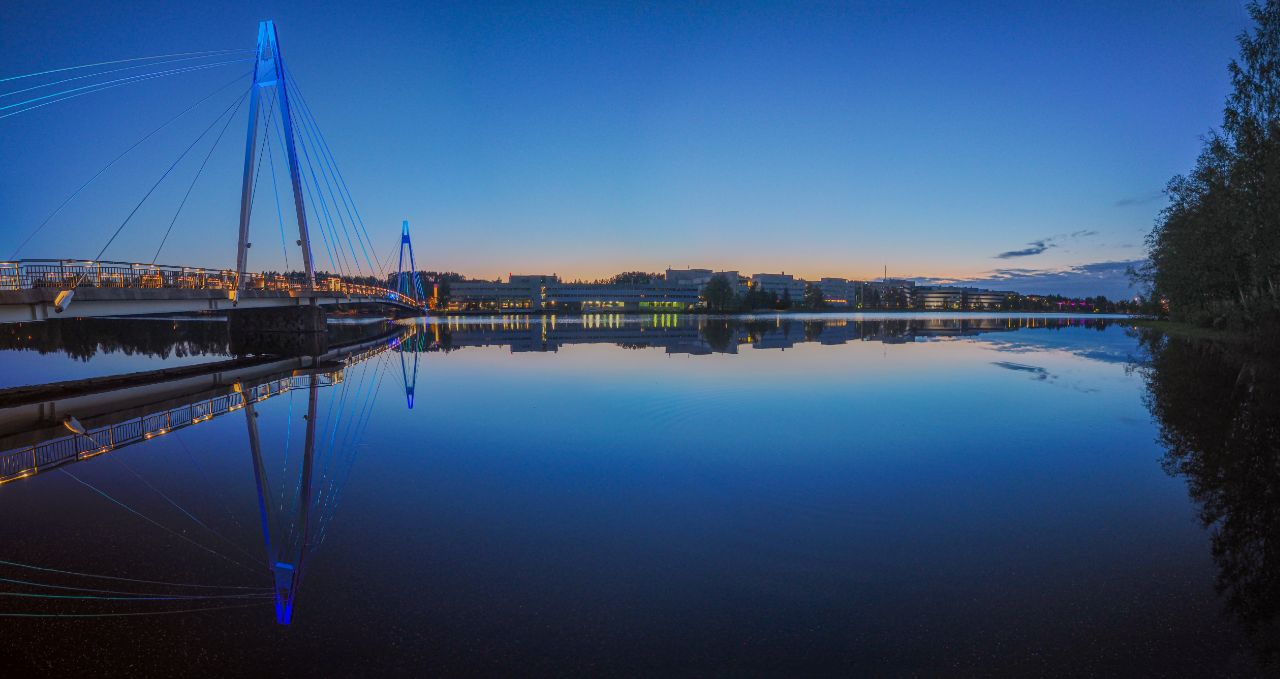
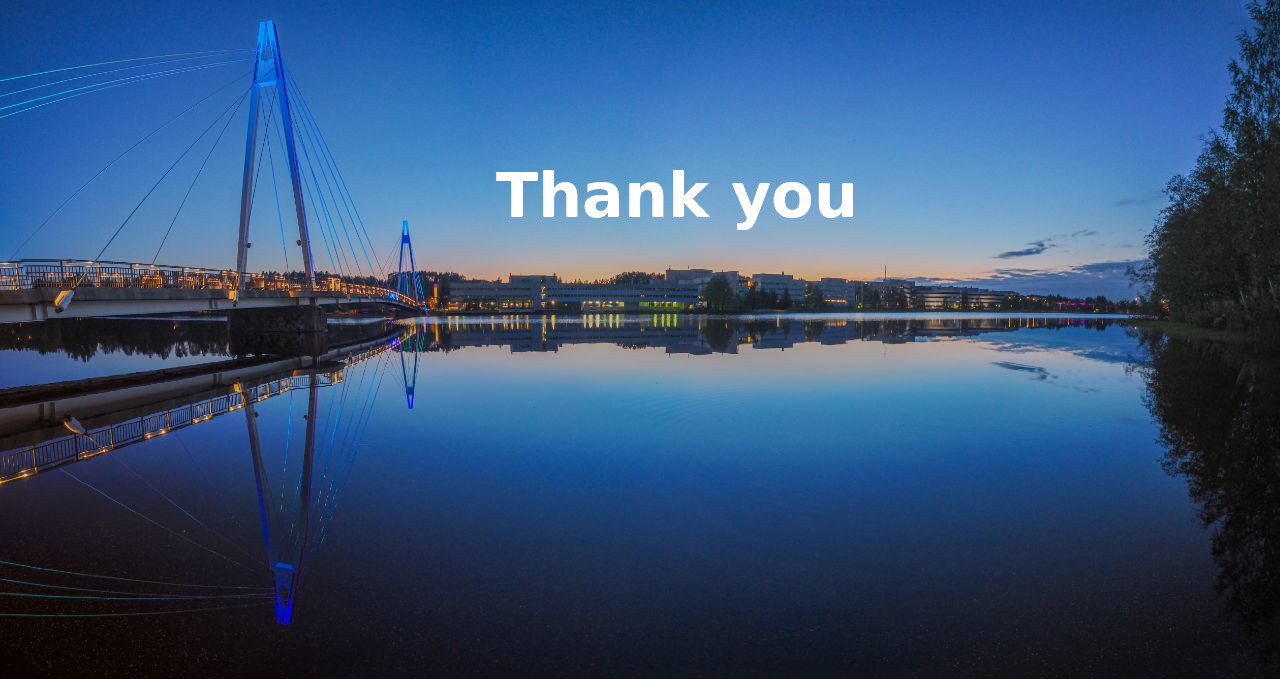
finished presentation

Changed region(s): [[0.375, 0.2474, 0.6875, 0.3402]]

diff --git a/Actinide_Workshop_Mainz2021/main.tex b/Actinide_Workshop_Mainz2021/main.tex
@@ -332,8 +332,8 @@ $^{3}$ CEA, Universite Paris-Saclay}
 	\begin{textblock*}{0.1\paperwidth}(0.28\paperwidth,0.42\paperheight)
 		\footnote{I. Pohjalainen, NIM B ,484 (2020) 59-70}
 	\end{textblock*}
-	\begin{textblock*}{0.09\paperwidth}(0.8\paperwidth,0.25\paperheight)
-		\includegraphics[width=\textwidth]{LMU.jpg}%
+	\begin{textblock*}{0.1\paperwidth}(0.82\paperwidth,0.2\paperheight)
+		\only<1->{\includegraphics[width=\textwidth]{LMU.jpg}}%
 	\end{textblock*}
 	\begin{textblock*}{0.7\paperwidth}(0.4\paperwidth,0.45\paperheight)
 		\textbf{Use of $^{233}$U as $^{229}$Th alpha recoil source}
@@ -447,6 +447,7 @@ $^{3}$ CEA, Universite Paris-Saclay}
 				\item Lack of experimental data
 				\item Simulation routines gives different results
 			\end{itemize}
+			\qquad \qquad $^{232}$Th(p,pxn)Y
 		\end{textblock*}
 
 \end{frame}
@@ -475,11 +476,11 @@ $^{3}$ CEA, Universite Paris-Saclay}
 		\textbf{Experimental Setup}
 		\small
 		\begin{itemize}
-			\item 4 BEGE detector ($\gamma$)
-			\item 2 Si quadrant detector ($\alpha$)
-			\item 1 Si(Li) detecor (e)
+			\item 4 BEGE detectors ($\gamma$)
+			\item 2 Si quadrant detectors ($\alpha$)
+			\item 1 Si(Li) detectors (e)
 		\end{itemize}
-		Resolve the decay scheme and lifetime by $\alpha$-$\gamma$ coincidences
+		Resolve the decay scheme and lifetime of selected isotopes by $\alpha$-$\gamma$ coincidences
 	\end{textblock*}
 \end{frame}
 
@@ -582,6 +583,10 @@ $^{3}$ CEA, Universite Paris-Saclay}
 			\item On-line production of $^{229}$Th
 			\item Optimal beam energy?
 		\end{itemize}
+		\vspace{0.05\textheight}
+		$\delta \nu (^{229}\text{Th},^{229}\text{Pa})\sim 0.7\ \text{Hz}$\\
+		\vspace{0.0\textheight}
+		1~s accumulation time\\ $\downarrow$\\ 0.05~Hz resolution		
 	\end{textblock*}
 \end{frame}
 
@@ -599,34 +604,34 @@ $^{3}$ CEA, Universite Paris-Saclay}
 	\end{frame}
 \end{SectionTitle}
 
-\begin{frame}{Summary}
-	\begin{textblock*}{0.5\paperwidth}(0.03\paperwidth,0.32\paperheight)
-		\begin{itemize}
-			\item[]<1->{Optical spectroscopy on actinides}
-			\vspace{0.02\textheight}
-			\item[]<2->{IGISOL\\
-					\begin{itemize}
-						\item Th and Pu sources and in gas-cell RIS
-						\item Pu high resolution spectroscopy
-					\end{itemize}
-					}
-			\vspace{0.02\textheight}
-			\item[]<3->{Neutron deficient actinides
-					\begin{itemize}
-						\item Decay spectroscopy \\ with $^{232}$Th target
-						\item Measurements wiht JYFL trap
-					\end{itemize}
-					}
-		\end{itemize}
-	\end{textblock*}
-	\begin{textblock*}{0.5\paperwidth}(0.47\paperwidth,0.2\paperheight)
-		% \vspace{0.1\textheight}
-		\only<1>{\includegraphics[width=0.7\textwidth]{AChart_1.pdf}}%
-		\only<2>{\includegraphics[width=0.5\textwidth]{GasCell.jpg}\\
-		\hspace{0.15\textwidth}\includegraphics[width=0.6\textwidth]{MSCR_PuHigh.jpg.pdf}}%
-		\only<3>{\vspace{0.15\textheight}\includegraphics[width=0.9\textwidth]{AlphaVsGamma_226.png}}%
-	\end{textblock*}
-\end{frame}
+% \begin{frame}{Summary}
+% 	\begin{textblock*}{0.5\paperwidth}(0.03\paperwidth,0.32\paperheight)
+% 		\begin{itemize}
+% 			\item[]<1->{Optical spectroscopy on actinides}
+% 			\vspace{0.02\textheight}
+% 			\item[]<2->{IGISOL\\
+% 					\begin{itemize}
+% 						\item Th and Pu sources and in gas-cell RIS
+% 						\item Pu high resolution spectroscopy
+% 					\end{itemize}
+% 					}
+% 			\vspace{0.02\textheight}
+% 			\item[]<3->{Neutron deficient actinides
+% 					\begin{itemize}
+% 						\item Decay spectroscopy \\ with $^{232}$Th target
+% 						\item Measurements wiht JYFL trap
+% 					\end{itemize}
+% 					}
+% 		\end{itemize}
+% 	\end{textblock*}
+% 	\begin{textblock*}{0.5\paperwidth}(0.47\paperwidth,0.2\paperheight)
+% 		% \vspace{0.1\textheight}
+% 		\only<1>{\includegraphics[width=0.7\textwidth]{AChart_1.pdf}}%
+% 		\only<2>{\includegraphics[width=0.5\textwidth]{GasCell.jpg}\\
+% 		\hspace{0.15\textwidth}\includegraphics[width=0.6\textwidth]{MSCR_PuHigh.jpg.pdf}}%
+% 		\only<3>{\vspace{0.15\textheight}\includegraphics[width=0.9\textwidth]{AlphaVsGamma_226.png}}%
+% 	\end{textblock*}
+% \end{frame}
 
 \begin{frame}{Outlook}
 	\begin{textblock*}{0.4\paperwidth}(0.03\paperwidth,0.32\paperheight)
@@ -653,4 +658,13 @@ $^{3}$ CEA, Universite Paris-Saclay}
 		
 	\end{textblock*}
 \end{frame}
+
+\begin{frame} 
+	\begin{textblock*}{0.98\paperwidth}(0.01\paperwidth,0.02\paperheight)
+		\centering
+		\includegraphics[width=0.96\textwidth]{JYU_closing.jpg}
+	\end{textblock*}
+\end{frame}
+
+
 \end{document}
